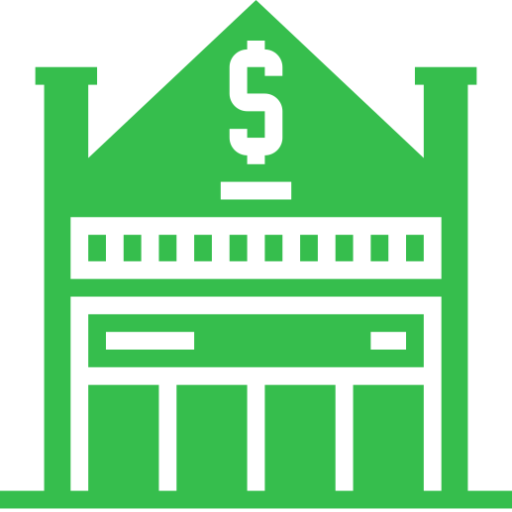
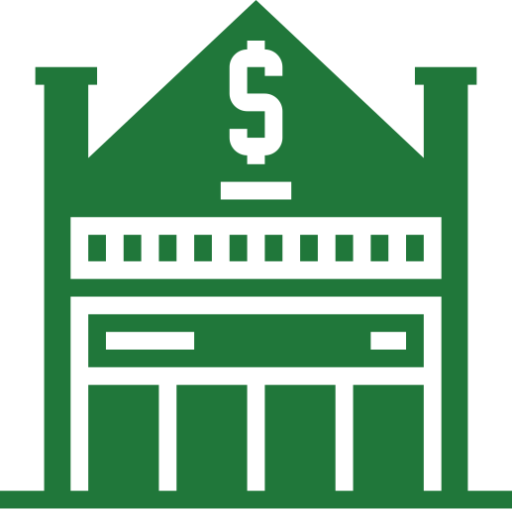
actualizacion de interfaz - Inicio

diff --git a/public/css/style8.css b/public/css/style8.css
@@ -1,12 +1,11 @@
-
 .ca-menu{
     padding:0;
     margin:20px auto;
-    width: 900px;
+    width: 1000px;
 }
 .ca-menu li{
     width: 290px;
-    height: 390px;
+    height: 190px;
     overflow: hidden;
     position: relative;
     float:left;
@@ -14,7 +13,7 @@
     -webkit-box-shadow: 1px 1px 2px rgba(0,0,0,0.2);
     -moz-box-shadow: 1px 1px 2px rgba(0,0,0,0.2);
     box-shadow: 1px 1px 2px rgba(0,0,0,0.2);
-    margin-right: 4px;
+    margin-right: 65px;
     -webkit-transition: all 300ms linear;
     -moz-transition: all 300ms linear;
     -o-transition: all 300ms linear;
@@ -36,12 +35,12 @@
     font-size: 30px;
     color: #333;
     text-shadow: 0px 0px 1px #333;
-    line-height: 150px;
+    line-height: 70px;
     position: absolute;
     width: 100%;
     height: 50%;
     left: 0px;
-    top: 30px;
+    top: 10px;
     text-align: center;
     -webkit-transition: all 400ms linear;
     -moz-transition: all 400ms linear;
@@ -55,10 +54,10 @@
     left: 0px;
     width: 100%;
     height: 50%;
-    top: 50%;
+    top: 60%;
 }
 .ca-main{
-    font-size: 30px;
+    font-size: 20px;
     opacity: 0.8;
     text-align: center;
     -webkit-transition: all 200ms linear;
@@ -122,7 +121,6 @@
         -ms-transform: scale(1);
     }
 }
-
 @-webkit-keyframes moveFromBottom {
     from {
         -webkit-transform: translateY(100%);

diff --git a/public/css/style.css b/public/css/style.css
@@ -177,7 +177,7 @@ a:focus {
 
 .nav-bar .navbar {
     height: 100%;
-    background: #717171 !important;
+    background: #20773A !important;
     /*717171*/
 }
 
@@ -1139,7 +1139,7 @@ a:focus {
 /*******************************/
 .testimonial {
     position: relative;
-    margin: 45px 0;
+    /*margin: 5px 0;*/
     padding: 90px 0;
     text-align: center;
     background: linear-gradient(rgba(3, 15, 39, .9), rgba(3, 15, 39, .9)), url(../img/carousel-1.jpg);
@@ -2061,7 +2061,7 @@ a:focus {
 /*******************************/
 .footer {
     position: relative;
-    margin-top: 45px;
+    /*margin-top: 45px;*/
     padding-top: 90px;
     background: #717171;
     color: #ffffff;

diff --git a/resources/views/welcome.blade.php b/resources/views/welcome.blade.php
@@ -185,7 +185,7 @@
             <!-- Carousel End -->
 
 
-            <!-- Feature Start-->
+            <!-- Feature Start
             <div class="feature wow fadeInUp" data-wow-delay="0.1s">
                 <div class="container-fluid">
                     <div class="row align-items-center">
@@ -225,7 +225,7 @@
                     </div>
                 </div>
             </div>
-            <!-- Feature End-->
+             Feature End-->
 
 
             <!-- About Start -->
@@ -236,6 +236,10 @@
                         <!-- Inicio de la zona de animacion css con imagenes-->
                         <div class="col-lg-5 col-md-6">
                                         <div class="hs-wrapper">
+                                        @foreach($imagenesInicio as $imagenInicio)
+                                            <img src="{{asset('storage').'/'.$imagenInicio->imagen_inicio}}" alt="{{$imagenInicio->titulo_img}}"/>
+                                        @endforeach
+                                        <!-- 
                                             <img src="{{ asset('img/img_modelos/1.jpg') }}" alt="image01"/>
                                             <img src="{{ asset('img/img_modelos/2.jpg') }}" alt="image02"/>
                                             <img src="{{ asset('img/img_modelos/3.jpg') }}" alt="image03"/>
@@ -244,6 +248,7 @@
                                             <img src="{{ asset('img/img_modelos/6.jpg') }}" alt="image06"/>
                                             <img src="{{ asset('img/img_modelos/7.jpg') }}" alt="image07"/>
                                             <img src="{{ asset('img/img_modelos/8.jpg') }}" alt="image08"/>
+                                        -->
                                         </div>
 
                                         <script type="text/javascript" src="{{ asset('js/modernizr.custom.04022.js') }}"></script>
@@ -251,25 +256,33 @@
                         <!-- Fin de la zona de animacion css con imagenes-->
 
                         <div class="col-lg-7 col-md-6">
-                            <div class="section-header text-left">
-                                <p>Expertos en todo tipo de sistemas electromecanicos</p>
-                                <h2 style="color: black;">8 Años Acompañandolo</h2>
-                            </div>
-                            <div class="about-text">
+                        <h3 style="color: black;"><b>8 Años Acompañandolo</b></h3>
+
+                        <div class="about-text">
                                 <p>
                                     Lorem ipsum dolor sit amet, consectetur adipiscing elit. Phasellus nec pretium mi. Curabitur facilisis ornare velit non vulputate. Aliquam metus tortor, auctor id gravida condimentum, viverra quis sem.
                                 </p>
                                 <p>
                                     Lorem ipsum dolor sit amet, consectetur adipiscing elit. Phasellus nec pretium mi. Curabitur facilisis ornare velit non vulputate. Aliquam metus tortor, auctor id gravida condimentum, viverra quis sem. Curabitur non nisl nec nisi scelerisque maximus. Aenean consectetur convallis porttitor. Aliquam interdum at lacus non blandit.
                                 </p>
-                                <a class="btn" href="http://localhost/electromatic/public/Vista-Empresa">Saber Mas...</a>
+                                <br><br/></br><br>
+                                
                             </div>
+                            
+                            <div class="section-header text-left">
+                                <br></br>
+                            </div>
+
+                            <div class="about-text">
+                            <a class="btn" href="http://localhost/electromatic/public/Vista-Empresa">Saber Mas...</a>
+                            </div>
+                            
                         </div>
                     </div>
                 </div>
             </div>
             <!-- About End -->
-   
+            <br></br>
             <!-- Feature Start-->
                 <div class="feature wow fadeInUp" data-wow-delay="0.1s">
                     <div class="container-fluid">
@@ -278,7 +291,7 @@
                                         <li>
                                             
                                                 <span class="ca-icon">
-                                                    <img src="{{ asset('/img/industria_img.png') }}" height="150" width="150">
+                                                    <img src="{{ asset('/img/industria_img.png') }}" height="90" width="90">
                                                 </span>
                                                 <div class="ca-content">
                                                     <h2  class="ca-main">EMPRESAS DEL SECTOR INDUSTRIAL</h2>
@@ -288,7 +301,7 @@
                                         <li>
                                             
                                                 <span class="ca-icon">
-                                                    <img src="{{ asset('/img/banco_img.png') }}" height="150" width="150">
+                                                    <img src="{{ asset('/img/banco_img.png') }}" height="90" width="90">
                                                 </span>
                                                 <div class="ca-content">
                                                     <h2 class="ca-main">BANCOS Y FINANCIERAS </h2>
@@ -298,10 +311,10 @@
                                         <li>
                                 
                                                 <span class="ca-icon">
-                                                    <img src="{{ asset('/img/edificios-hospitalarios_img.png') }}" height="150" width="150">
+                                                    <img src="{{ asset('/img/edificios-hospitalarios_img.png') }}" height="90" width="90">
                                                 </span>
                                                 <div class="ca-content">
-                                                    <h2  class="ca-main">HOSPITALES Y CLINICAS</h2>
+                                                    <h2  class="ca-main">HOSPITALES <br>Y CLINICAS</h2>
                                                 </div>
                                             
                                         </li>
@@ -312,10 +325,10 @@
             <!-- Feature End-->
 
             <!-- FAQs Start -->
+            <!--
             <div class="faqs">
                 <div class="container">
                     <div class="section-header text-center">
-                        <p>Un vistazo por nuestros servicios</p>
                         <h2 style="color: black;">Nuestros servicios</h2>
                     </div>
                     <div class="row">
@@ -378,9 +391,9 @@
                     </div>
                 </div>
             </div>
+-->
             <!-- FAQs End -->
 
-            <br></br>
 
             <!-- Testimonial Start -->
             <div class="testimonial wow fadeIn" data-wow-delay="0.1s">
@@ -449,47 +462,6 @@
             </div>
             <!-- Testimonial End -->
 
-            <!-- Single Post Start-->
-            <div class="single">
-                <div class="container">
-                    <div class="row">
-                                <div class="section-header text-center">
-                                    <p>Un vistazo por nuestros manuales</p>
-                                    <h2 style="color: black;">Manuales</h2>
-                                </div>
-                        <div class="col-12">
-                                
-                        <div class="sidebar-widget wow fadeInUp">
-                                    <h2 style="color: black;" class="widget-title">Manuales Recientes:</h2>
-                                    <br></br>
-                                    <div class="recent-post">
-                                        @foreach($manuales as $manual)
-                                            <div class="post-item">
-                                                <div class="post-img">
-                                                    <img src="{{asset('storage').'/'.$manual->img_manual}}" />
-                                                </div>
-                                                <div class="post-text">
-                                                    <a href="{{ url('/'.$manual->id.'/Vista-Manual-Elemento') }}">{{$manual->titulo_manual}}</a>
-                                                    <h5 style="color: black;">{{$manual->descripcion}}</h5>
-                                                    <div class="post-meta">
-                                                        <p>Subido el dia: {{$manual->fecha}}</p>
-                                                    </div>
-                                                    <hr></hr>
-                                                </div>
-                                            </div>
-                                        @endforeach
-                                    </div>
-                                </div>
-                            
-                        </div>
-                    </div>
-                </div>
-
-
-                
-            </div>
-            <!-- Single Post End-->   
-
             <!-- Footer Start -->
             <div class="footer wow fadeIn" data-wow-delay="0.3s">
                 <div class="container">
@@ -497,9 +469,28 @@
                         <div class="col-md-4 col-lg-3">
                             <div class="footer-contact">
                                 <h2>Oficina de contacto</h2>
-                                <p><i class="fa fa-map-marker-alt"></i>Calle Consuelo 307-A - Cercado Arequipa</p>
-                                <p><i class="fa fa-phone-alt"></i>054-399450 - 964-770-354</p>
-                                <p><i class="fa fa-envelope"></i>servicios_cliente<br>@electromaticindustrial.com</p>
+                                <table>
+                                    <tr>
+                                        <td><i class="fa fa-map-marker-alt"></i></td>
+                                        <td></td>
+                                        <td><p>Calle Consuelo 307-A - Cercado Arequipa</p></td>
+                                    </tr>
+
+                                    <tr>
+                                        <td><i class="fa fa-phone-alt"></i></td>
+                                        <td></td>
+                                        <td><p>054-399450 - 964-770-354</p></td>
+                                    </tr>
+
+                                    <tr>
+                                        <td><i class="fa fa-envelope"></i></td>
+                                        <td></td>
+                                        <td><p>servicios_cliente<br>@electromaticindustrial.com</p></td>
+                                    </tr>
+                                </table>
+                                
+                                
+                                
                                 <!--
                                 <div class="footer-social">
                                     <a href=""><i class="fab fa-twitter"></i></a>
@@ -529,13 +520,13 @@
 
                         <div class="col-md-6 col-lg-3">
                             <div class="newsletter">
-                                <h2>Nuestros Sitios</h2>
+                                <h2>INTRANET</h2>
                                 <p>
-                                    <b>Intranet</b>, destinado a nuestros clientes, <a style="color: white;" href="http://intranet.electromaticindustrial.com/">Ir al sitio</a>
+                                    Destinado a nuestros clientes, <a style="color: white;" href="http://intranet.electromaticindustrial.com/"><b><u>IR</u></b></a>
                                 </p>
                                 <br>
                                 <p>
-                                    <b>Grupos electrogenos</b>, <a style="color: white;" href="http://gruposelectrogenosei.com/">Ir al sitio</a>
+                                    Grupos electrogenos, <a style="color: white;" href="http://gruposelectrogenosei.com/"><b><u>IR</u></b></a>
                                 </p>
                                 
                             </div>
@@ -546,8 +537,6 @@
                     <br>
 
                     <div class="container footer-menu">
-                    
-                        <h4><b>Nuestras redes sociales</b></h4>
                         <div class="f-menu">
                             <a href=""><img src="https://assets.stickpng.com/images/584ac2d03ac3a570f94a666d.png" width="35" height="35" ></a>
                             <a></a>

diff --git a/app/Http/Controllers/FrontController.php b/app/Http/Controllers/FrontController.php
@@ -22,9 +22,16 @@ class FrontController extends Controller
         return view('welcome', $datos);
     }
 */
+/*
     public function viewPostManuales(){
         //
         $datos['manuales'] = Manuales::paginate(30);
+        return view('welcome', $datos);
+    }
+*/
+    public function viewImagenesCSS(){
+        //
+        $datos['imagenesInicio'] = imagesInicio::paginate(30);
         return view('welcome', $datos);
     }
 

diff --git a/routes/web.php b/routes/web.php
@@ -15,7 +15,8 @@ use Illuminate\Support\Facades\DB;
 
 ///Estaticas
 //Route::get('/', 'FrontController@viewImagenes');
-Route::get('/', 'FrontController@viewPostManuales');
+//Route::get('/', 'FrontController@viewPostManuales');
+Route::get('/', 'FrontController@viewImagenesCSS');
 //Empresa
 Route::get('/Vista-Empresa', function () {
     return view('empresa');
